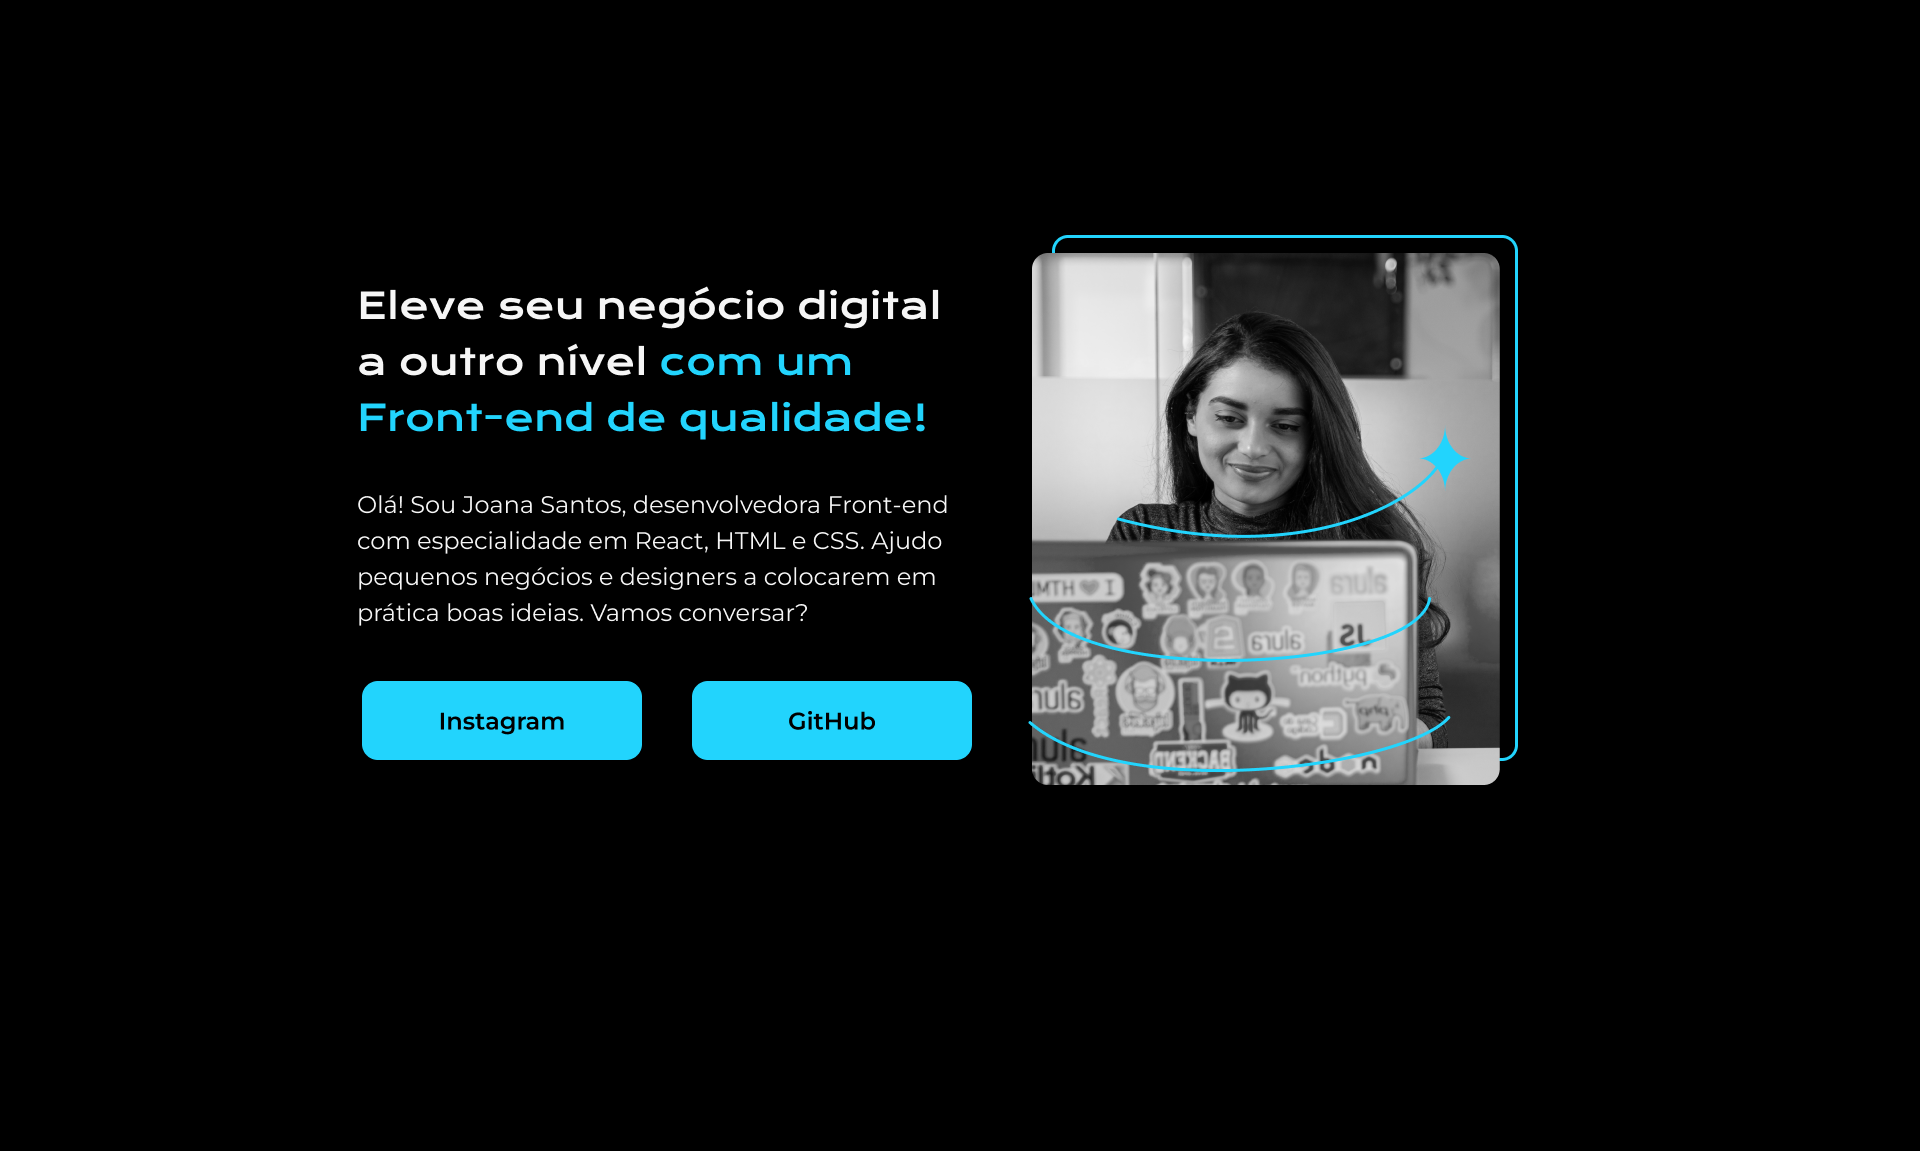
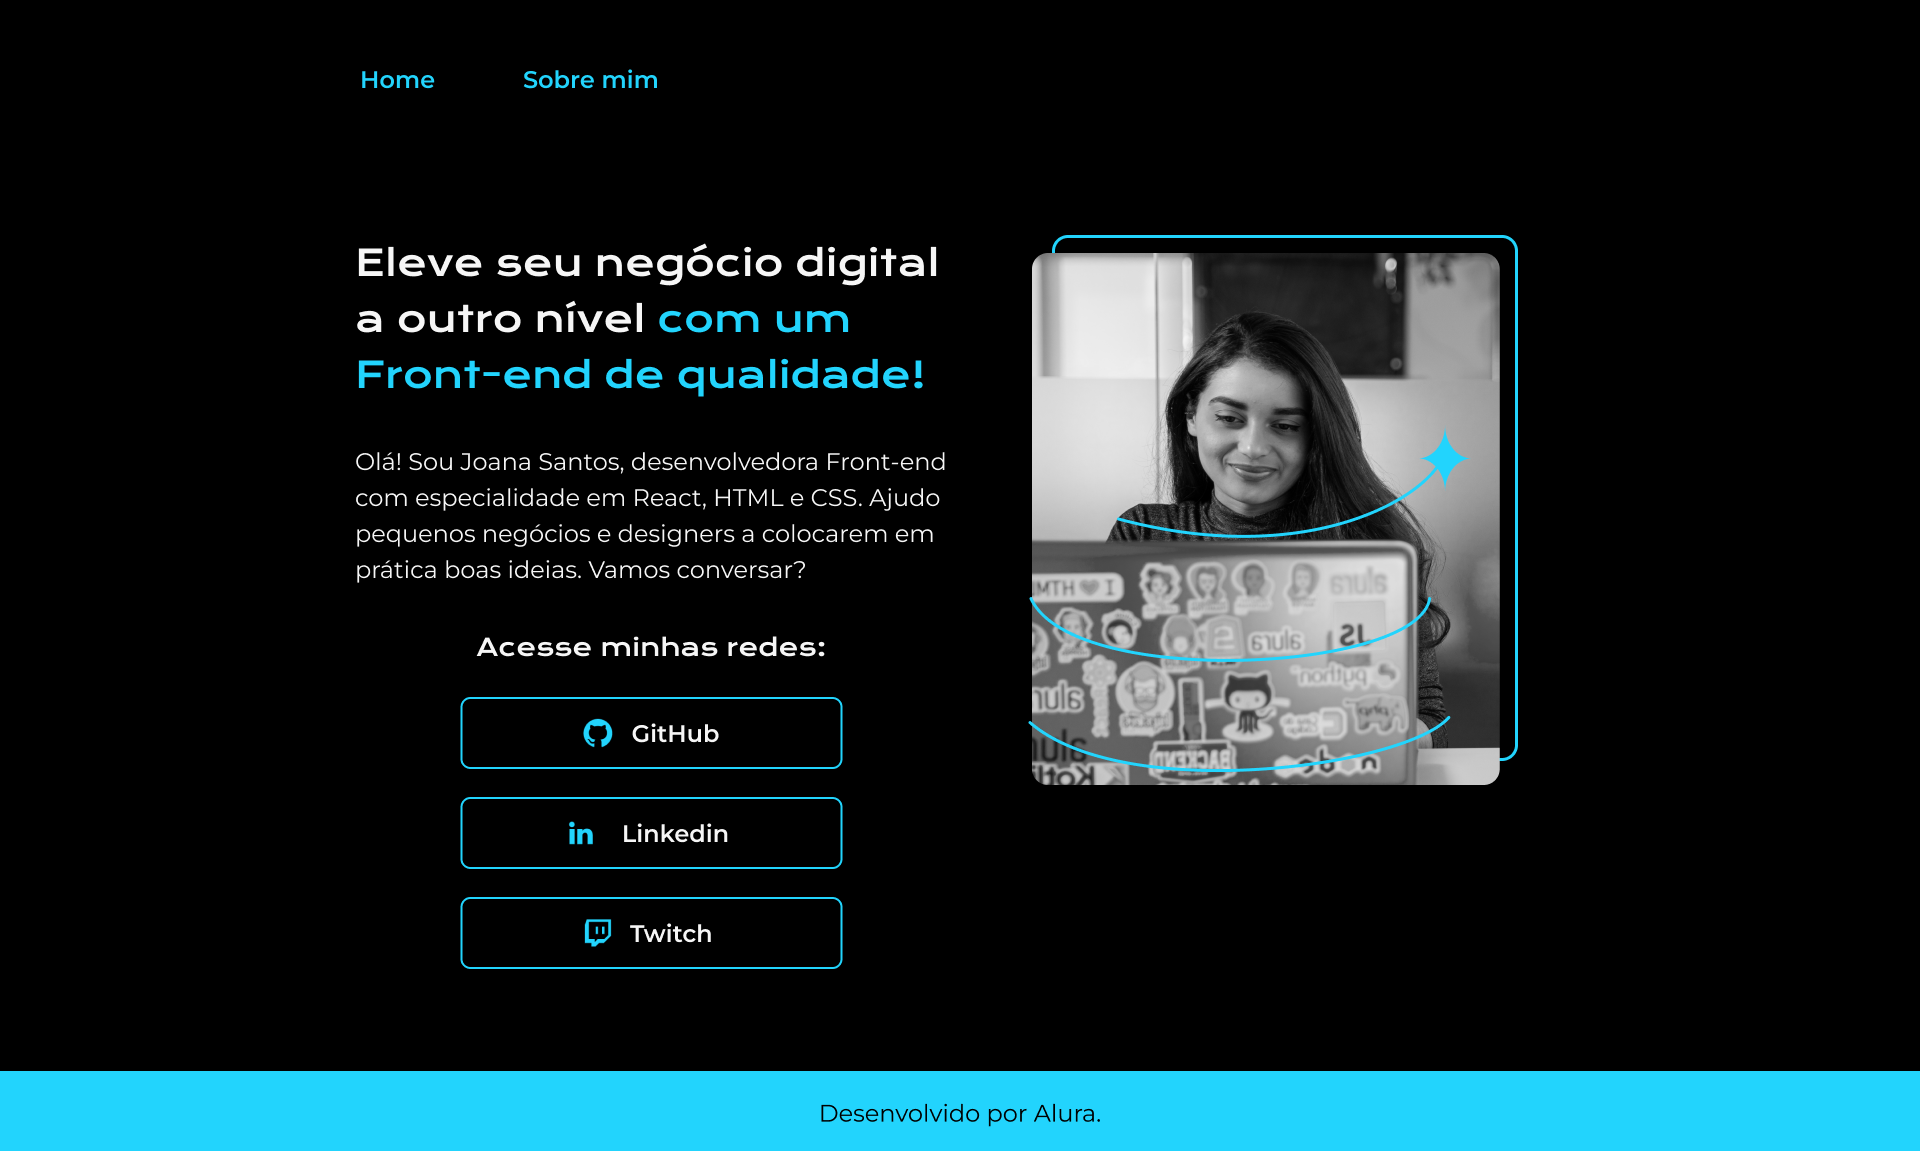
first commit

diff --git a/style.css b/style.css
@@ -1,22 +1,83 @@
+/* Reset */
 * {
   margin: 0;
   padding: 0;
   border: 0;
+  box-sizing: border-box;
+}
+
+:root {
+  /* Cores */
+  --cor-primaria: #000000;
+  --cor-secundaria: #f6f6f6;
+  --cor-terciaria: #22d4fd;
+
+  /* Fontes */
+  --fonte-titulo: Krona One, sans-serif;
+  --fonte-texto: Montserrat, sans-serif;
+
+  /* Tamanhos */
+  --tamanho-titulo: 36px;
+  --tamanho-texto: 24px;
+
+  /* Estilos */
+  --estilo-titulo: normal;
+  --estilo-texto: normal;
+
+  /* Pesos */
+  --peso-titulo: 400;
+  --peso-texto: 400;
+
+  /* Linha */
+  --linha-titulo: 56px;
+  --linha-texto: 36px;
+
+  /* Borda */
+  --borda-raio: 8px;
+  --borda-largura: 2px;
+  --borda-cor: var(--cor-terciaria);
 }
 
 body {
-  height: 100vh;
-  box-sizing: border-box;
-  background: #000;
-  color: #f6f6f6;
+  background: var(--cor-primaria);
+  color: var(--cor-secundaria);
+  font-size: var(--tamanho-texto);
+  font-style: var(--estilo-texto);
+  font-weight: var(--peso-texto);
+  line-height: var(--linha-texto);
+  font-family: var(--fonte-texto);
 }
 
+/* Destaque do Título */
 .destaquetitulo {
-  color: #22d4fd;
+  color: var(--cor-terciaria);
+  font-family: var(--fonte-titulo);
+  font-size: var(--tamanho-titulo);
+  font-style: var(--estilo-titulo);
+  font-weight: var(--peso-titulo);
+  line-height: var(--linha-titulo);
 }
 
+/* Cabeçalho */
+.cabecalho {
+  padding: 2% 0 0 15%;
+}
+
+.cabecalho__link {
+  display: flex;
+  gap: 80px;
+}
+
+.cabecalho__link__menu {
+  color: var(--cor-terciaria);
+  font-size: var(--tamanho-texto);
+  font-weight: 600;
+  text-decoration: none;
+}
+
+/* Apresentação */
 .apresentacao {
-  margin: 10%;
+  padding: 5%;
   display: flex;
   align-items: center;
   justify-content: space-between;
@@ -29,47 +90,85 @@ body {
   gap: 40px;
 }
 
+/* Apresentação - Títulos e Texto */
 .apresentacao__conteudo__titulo,
-.destaquetitulo {
-  font-family: Krona One;
-  font-size: 36px;
-  font-style: normal;
-  font-weight: 400;
-  line-height: 56px;
+.apresentacao__conteudo__texto {
+  color: var(--cor-secundaria);
+}
+
+.apresentacao__conteudo__titulo {
+  font-family: var(--fonte-titulo);
+  font-size: var(--tamanho-titulo);
+  font-style: var(--estilo-titulo);
+  font-weight: var(--peso-titulo);
+  line-height: var(--linha-titulo);
 }
 
 p {
-  font-family: Montserrat;
-  font-size: 24px;
-  font-style: normal;
-  font-weight: 400;
-  line-height: 36px;
+  font-family: var(--fonte-texto);
+  font-size: var(--tamanho-texto);
+  font-style: var(--estilo-texto);
+  font-weight: var(--peso-texto);
+  line-height: var(--linha-texto);
 }
 
+/* Apresentação - Links */
 .apresentacao__links {
   display: flex;
+  flex-direction: column;
   justify-content: space-between;
+  align-items: center;
+  gap: 32px;
 }
 
-a {
+.apresentacao__links__links {
   display: flex;
-  width: 280px;
+  width: 378px;
   padding: 21.5px 0;
   justify-content: center;
   align-items: center;
   gap: 16px;
   flex-shrink: 0;
-  border-radius: 16px;
-  border: 0px solid #22d4fd;
-  background-color: #22d4fd;
   text-align: center;
-  font-size: 24px;
+  font-size: var(--tamanho-texto);
   text-decoration: none;
-  color: #000;
-  text-align: center;
-  font-family: Montserrat;
-  font-size: 24px;
-  font-style: normal;
+  color: var(--cor-secundaria);
+  font-family: var(--fonte-texto);
   font-weight: 600;
-  line-height: 36px;
+  line-height: var(--linha-texto);
+  border-radius: var(--borda-raio);
+  border: var(--borda-largura) solid var(--borda-cor);
 }
+
+.apresentacao__links__links:hover {
+  border-radius: var(--borda-raio);
+  border: var(--borda-largura) solid var(--borda-cor);
+  background: #272727;
+}
+
+.apresentacao__links__titulo {
+  color: var(--cor-secundaria);
+  text-align: center;
+  font-family: var(--fonte-titulo);
+  font-size: 24px;
+  font-weight: 400;
+  line-height: 40px;
+}
+
+/* Rodapé */
+.rodape {
+  background: var(--cor-terciaria);
+  padding: 24px;
+  width: 100%;
+  height: 80px;
+  color: var(--cor-primaria);
+  text-align: center;
+  font-family: var(--fonte-texto);
+  font-size: var(--tamanho-texto);
+  font-style: var(--estilo-texto);
+  font-weight: var(--peso-texto);
+  line-height: var(--linha-texto);
+}
+
+/* Outros estilos */
+/* Adicione outros estilos específicos aqui, se necessário */

diff --git a/index.html b/index.html
@@ -2,50 +2,62 @@
 <html lang="pt-br">
   <head>
     <meta charset="UTF-8" />
-    <meta http-equiv="X-UA-Compatible" content="IE=edge" />
     <meta name="viewport" content="width=device-width, initial-scale=1.0" />
-
-    <!--fontes-->
-    <link rel="preconnect" href="https://fonts.googleapis.com" />
-    <link rel="preconnect" href="https://fonts.gstatic.com" crossorigin />
+    <title>PortfolioDan</title>
     <link
       href="https://fonts.googleapis.com/css2?family=Krona+One&display=swap"
       rel="stylesheet"
     />
-    <link rel="preconnect" href="https://fonts.googleapis.com" />
-    <link rel="preconnect" href="https://fonts.gstatic.com" crossorigin />
     <link
       href="https://fonts.googleapis.com/css2?family=Montserrat:ital@1&display=swap"
       rel="stylesheet"
     />
-
-    <link rel="stylesheet" href="style.css" />
-
-    <title>PortfolioDan</title>
+    <link rel="stylesheet" href="./style.css" />
   </head>
   <body>
-    <header>
-      <main class="apresentacao">
-        <section class="apresentacao__conteudo">
-          <h1 class="apresentacao__conteudo__titulo">Eleve seu negócio digital a outro nível</h1>
-          <strong class="destaquetitulo">com um Front-end de qualidade!</strong>
-          <p>
-            Olá! Sou Daniel Duarte, desenvolvedor Front-end com especialidade em
-            React, HTML e CSS. Ajudo pequenos negócios e designers a colocarem
-            em prática boas ideias. Vamos conversar?
-          </p>
-          <div class="apresentacao__links">
-          <a class="apresentacao__links__links" href="https://www.linkedin.com/in/daniel-duarte-a0aa252b/"
-            >LinkedIn</a
-          >
-          <a href="https://github.com/daduara">Github</a>
-          </div>
-        </section>
-        <img
-          src="./assets/danielprofilepic.png"
-          alt="Foto de Daniel Duarte de perfil"
-        />
-      </main>
+    <header class="cabecalho">
+      <nav class="cabecalho__link">
+        <a class="cabecalho__link__menu" href="./index.html">Home</a>
+        <a class="cabecalho__link__menu" href="./about.html">About</a>
+      </nav>
     </header>
+    <main class="apresentacao">
+      <section class="apresentacao__conteudo">
+        <h1 class="apresentacao__conteudo__titulo">
+          Eleve seu negócio digital a outro nível
+          <strong class="destaquetitulo">com um Front-end de qualidade!</strong>
+        </h1>
+        <p>
+          Olá! Sou Daniel Duarte, desenvolvedor Front-end com especialidade em
+          React, HTML e CSS. Ajudo pequenos negócios e designers a colocarem em
+          prática boas ideias. Vamos conversar?
+        </p>
+        <div class="apresentacao__links">
+          <h2 class="apresentacao__links__titulo">Acesse minhas redes:</h2>
+          <a
+            class="apresentacao__links__links"
+            href="https://www.linkedin.com/in/daniel-duarte-a0aa252b/"
+          >
+            <img
+              src="./assets/Logo linkedin.png"
+              alt="logo do linkedin"
+            />LinkedIn
+          </a>
+          <a
+            class="apresentacao__links__links"
+            href="https://github.com/daduara/daduara.github.io"
+          >
+            <img src="./assets/Logo Github.png" alt="logo do github" />GitHub
+          </a>
+        </div>
+      </section>
+      <img
+        src="./assets/danielprofilepic.png"
+        alt="Foto de Daniel Duarte de perfil"
+      />
+    </main>
+    <footer class="rodape">
+      <p>Desenvolvido por Daniel Duarte.</p>
+    </footer>
   </body>
 </html>

diff --git a/about.html b/about.html
@@ -1,0 +1,52 @@
+<!DOCTYPE html>
+<html lang="pt-br">
+  <head>
+    <meta charset="UTF-8" />
+    <meta name="viewport" content="width=device-width, initial-scale=1.0" />
+    <title>SobreMim</title>
+    <link
+      rel="stylesheet"
+      href="https://fonts.googleapis.com/css2?family=Krona+One&family=Montserrat:ital@1&display=swap"
+    />
+    <link rel="stylesheet" href="./style.css" />
+  </head>
+  <body>
+    <header class="cabecalho">
+      <nav class="cabecalho__link">
+        <a class="cabecalho__link__menu" href="./index.html">Home</a>
+        <a class="cabecalho__link__menu" href="./about.html">About</a>
+      </nav>
+    </header>
+    <main class="apresentacao">
+      <section class="apresentacao__conteudo">
+        <h1 class="apresentacao__conteudo__titulo">Sobre mim</h1>
+        <p class="apresentacao__conteudo__texto">
+          At vero eos et accusamus et iusto odio dignissimos ducimus qui
+          blanditiis praesentium voluptatum deleniti atque corrupti quos dolores
+          et quas molestias excepturi sint occaecati cupiditate non provident,
+          similique sunt in culpa qui officia deserunt mollitia animi, id est
+          laborum et dolorum fuga.
+        </p>
+        <p class="apresentacao__conteudo__texto">
+          Et harum quidem rerum facilis est et expedita distinctio. Nam libero
+          tempore, cum soluta nobis est eligendi optio cumque nihil impedit quo
+          minus id quod maxime placeat facere possimus, omnis voluptas assumenda
+          est, omnis dolor repellendus. Temporibus autem quibusdam et aut
+          officiis debitis aut rerum necessitatibus saepe eveniet ut et
+          voluptates repudiandae sint et molestiae non recusandae. Itaque earum
+          rerum hic tenetur a sapiente delectus, ut aut reiciendis voluptatibus
+          maiores alias consequatur aut perferendis doloribus asperiores ipsum
+          delis forum birol parela maxime infena. Excepteur sint occaecat
+          cupidatat non.
+        </p>
+      </section>
+      <img
+        src="./assets/danielprofilepic.png"
+        alt="Foto de Daniel Duarte de perfil"
+      />
+    </main>
+    <footer class="rodape">
+      <p>Desenvolvido por Daniel Duarte.</p>
+    </footer>
+  </body>
+</html>

diff --git a/readme.md b/readme.md
@@ -1,8 +1,8 @@
-<h1 align="center"> Portfolio Dan </h1>
+<h1 align="center"> Portfolio Dan V2 </h1>
 
 <p align="center">
-Programa de exercício proposto pela Alura no curso de formação de Front-end <br/>
-<a href="https://www.figma.com/file/9tioAXJg32m2rw7Z438XAP/Portfolio---Curso-1-(Copy)?node-id=1%3A11&mode=dev">Estude esse projeto clicando aqui.</a>
+Programa de exercício proposto pela Alura no curso de formação de Front-end módulo 2<br/>
+<a href="https://www.figma.com/file/0sHX72vfT4sspU9FunajsC/Portfolio-Projeto-2-(Copy)?node-id=1%3A47&mode=dev">Estude esse projeto clicando aqui.</a>
 </p>
 
 <p align="center">
@@ -10,10 +10,6 @@ Programa de exercício proposto pela Alura no curso de formação de Front-end <
   <a href="#-projeto">Projeto</a>&nbsp;&nbsp;&nbsp;|&nbsp;&nbsp;&nbsp;
   <a href="#-layout">Layout</a>&nbsp;&nbsp;&nbsp;|&nbsp;&nbsp;&nbsp;
   <a href="#memo-licença">Licença</a>
-</p>
-
-<p align="center">
-  <img alt="License" src="https://img.shields.io/static/v1?label=license&message=MIT&color=49AA26&labelColor=000000">
 </p>
 
 <br>
@@ -38,7 +34,7 @@ O Portfolio é usado como forma de disponibilizar o Github e LinkedIn do desenvo
 
 ## 🔖 Layout
 
-Você pode visualizar o layout do projeto através [DESSE LINK](<https://www.figma.com/file/9tioAXJg32m2rw7Z438XAP/Portfolio---Curso-1-(Copy)?node-id=1%3A11&mode=dev>). É necessário ter conta no [Figma](https://figma.com) para acessá-lo.
+Você pode visualizar o layout do projeto através [DESSE LINK](<https://www.figma.com/file/0sHX72vfT4sspU9FunajsC/Portfolio-Projeto-2-(Copy)?node-id=1%3A47&mode=dev>). É necessário ter conta no [Figma](https://figma.com) para acessá-lo.
 
 ## Licença
 
